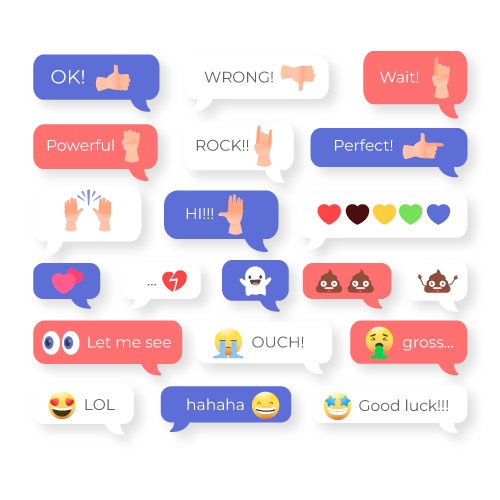
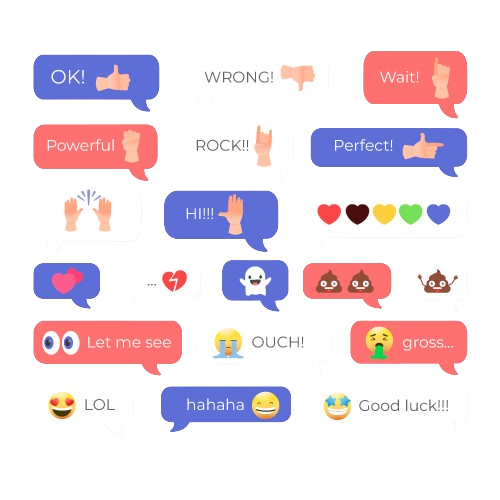
fix: sign in color theme

diff --git a/lib/ui/auth/signin_screen.dart b/lib/ui/auth/signin_screen.dart
@@ -25,7 +25,6 @@ class SignInScreen extends ConsumerWidget {
     });
 
     return Scaffold(
-      backgroundColor: Colors.white,
       body: SafeArea(
         child: Padding(
           padding: const EdgeInsets.all(16),
@@ -92,13 +91,11 @@ class SignInScreen extends ConsumerWidget {
                                     Image.asset(
                                       'assets/google.png',
                                       width: 24,
-                                      color: Colors.white,
                                     ),
                                     const SizedBox(width: 8),
                                     Text(
                                       AppLocalizations.of(context)!.get_started,
                                       style: TextStyle(
-                                        color: Colors.white,
                                         fontWeight: FontWeight.bold,
                                         fontSize: 16,
                                       ),
